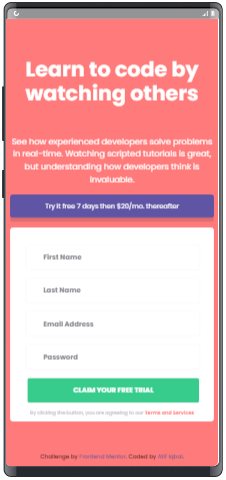
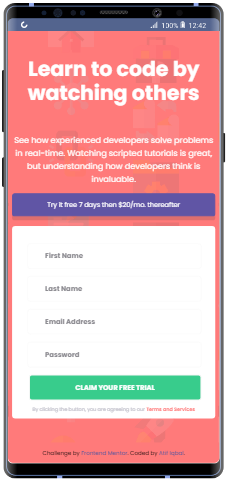
background image fixed

diff --git a/style.css b/style.css
@@ -5,10 +5,12 @@
 }
 
 body{
-	background-image: url("/images/bg-intro-desktop.png");
+	background-image: url("images/bg-intro-desktop.png");
 	background-color: hsl(0, 100%, 74%);
-
-	display: grid;
+  background-position: center;
+  background-repeat: no-repeat;
+  background-size: cover;
+  display: grid;
 	min-height: 100vh;
 	place-content: center;
 }
@@ -30,6 +32,8 @@ body{
 	display: flex;
 	width: 83%;
 	margin: 0 auto;
+
+
 }
 
 .cont_child{
